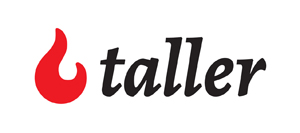
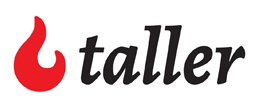
add globo, pipefy as new sponsors and adjust imgs

Changed region(s): [[0.0303, 0.1376, 0.9394, 0.8532]]

diff --git a/src/components/Sponsor.js b/src/components/Sponsor.js
@@ -7,6 +7,8 @@ import Text from './Text';
 import tallerImg from '../media/images/sponsors/taller.jpg';
 import quantoImg from '../media/images/sponsors/quanto.jpg';
 import fullcircleImg from '../media/images/sponsors/fullcircle.jpg';
+import globoImg from '../media/images/sponsors/globo.jpg';
+import pipefyImg from '../media/images/sponsors/pipefy.jpg';
 
 const styles = {
   container: css({
@@ -33,7 +35,15 @@ const styles = {
     borderRadius: 0,
     margin: 10,
     '> a > img': {
-      maxWidth: 200,
+      '.pleno': {
+        maxWidth: 300,
+        maxHeight: 100,
+      },
+      '.junior': {
+        maxWidth: 200,
+        maxHeight: 100,
+      },
+      maxWidth: 150,
       maxHeight: 100,
       margin: '0 auto',
       display: 'block',
@@ -50,7 +60,25 @@ const styles = {
   }),
 };
 
-const Sponsors = [
+const Plenos = [
+  {
+    id: 1,
+    name: 'Pipefy',
+    avatar: pipefyImg,
+    link: 'https://pipefy.com',
+  },
+];
+
+const Juniors = [
+  {
+    id: 2,
+    name: 'Globo.com',
+    avatar: globoImg,
+    link: 'http://www.globo.com',
+  },
+];
+
+const Padawans = [
   {
     id: 3,
     name: 'Taller',
@@ -76,19 +104,62 @@ class TextSponsor extends PureComponent {
     return (
       <div {...styles.container}>
         <Text title="Patrocínio" reverse />
+
         <div {...styles.cards}>
-          {Sponsors.map(sponsor => {
+          {Plenos.map(pleno => {
             return (
-              <div key={sponsor.id} {...styles.card}>
+              <div key={pleno.id} {...styles.card}>
                 <a
                   href={
-                    sponsor.link +
+                    pleno.link +
                     '?utm_source=reactconfbr-site&utm_medium=logo&utm_campaign=reactconfbr-2017'
                   }
                   target="_blank"
                   rel="noopener noreferrer"
                 >
-                  <img src={sponsor.avatar} alt={sponsor.name} />
+                  <img src={pleno.avatar} alt={pleno.name} className="pleno" />
+                </a>
+              </div>
+            );
+          })}
+        </div>
+
+        <div {...styles.cards}>
+          {Juniors.map(junior => {
+            return (
+              <div key={junior.id} {...styles.card}>
+                <a
+                  href={
+                    junior.link +
+                    '?utm_source=reactconfbr-site&utm_medium=logo&utm_campaign=reactconfbr-2017'
+                  }
+                  target="_blank"
+                  rel="noopener noreferrer"
+                >
+                  <img
+                    src={junior.avatar}
+                    alt={junior.name}
+                    className="junior"
+                  />
+                </a>
+              </div>
+            );
+          })}
+        </div>
+
+        <div {...styles.cards}>
+          {Padawans.map(padawan => {
+            return (
+              <div key={padawan.id} {...styles.card}>
+                <a
+                  href={
+                    padawan.link +
+                    '?utm_source=reactconfbr-site&utm_medium=logo&utm_campaign=reactconfbr-2017'
+                  }
+                  target="_blank"
+                  rel="noopener noreferrer"
+                >
+                  <img src={padawan.avatar} alt={padawan.name} />
                 </a>
               </div>
             );
